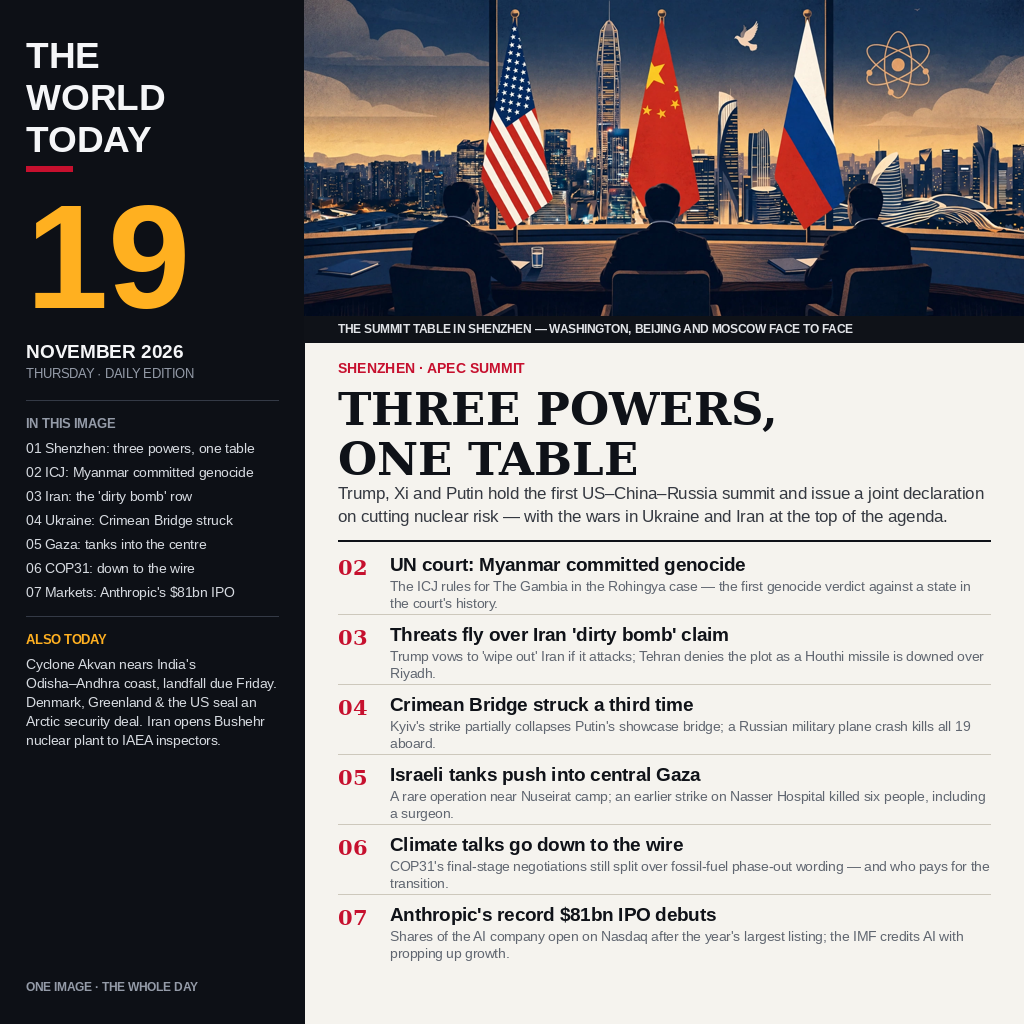
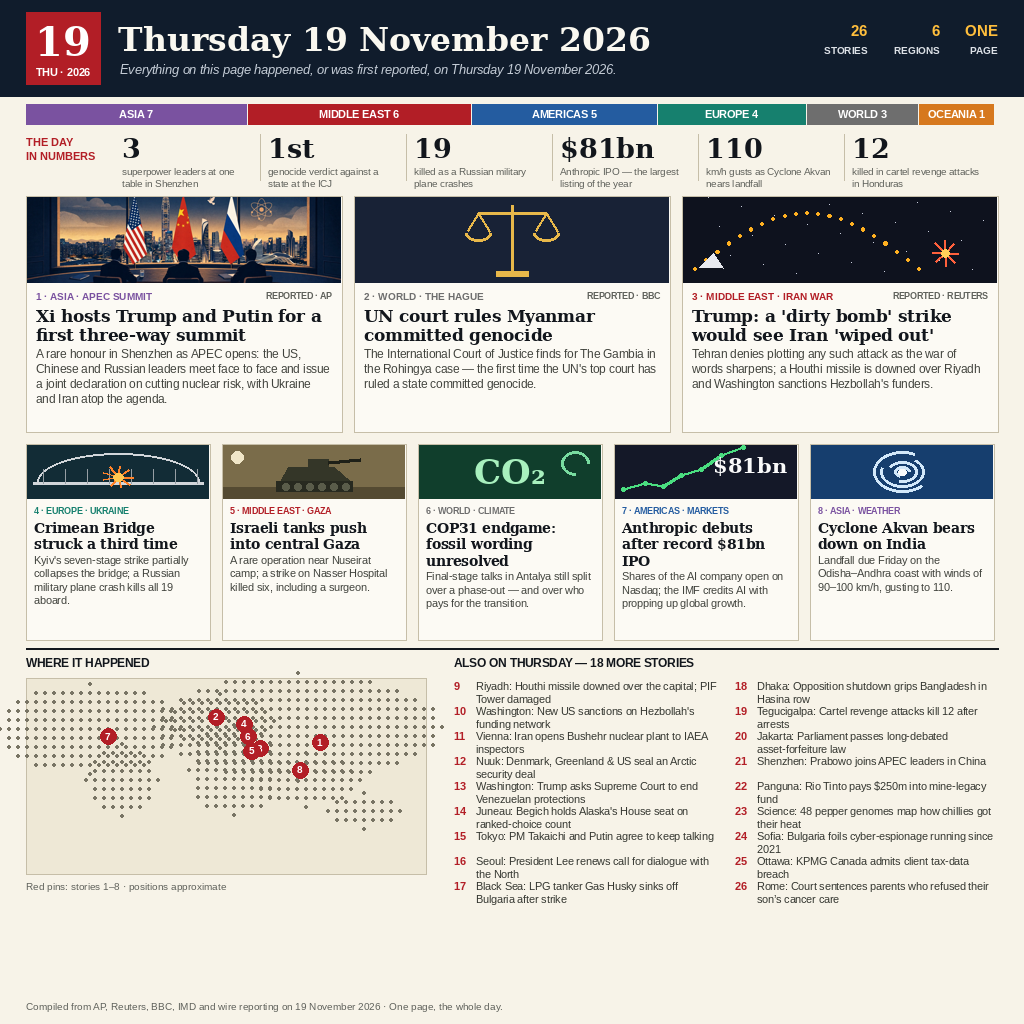
Redesign entry image v4: dense infographic broadsheet after the 18 Nov winner — day-in-numbers strip, 8 illustrated story cards, dotted world map with pins, 26 stories total

diff --git a/README.md b/README.md
@@ -2,7 +2,7 @@
 
 An entry for make.fun's "Sum up 19 November's world news in one image" bounty ($250, 50 places), entered by @oxwazolsky.
 
-The entry is a program (`main.ts`, Node 22, standard library only) that writes one image to `/output/entry.png`: a one-page modern editorial poster for Thursday 19 November 2026. The hero story is the first US–China–Russia trilateral summit in Shenzhen (Trump, Xi and Putin; joint declaration on nuclear risk), illustrated with an original editorial illustration of the three leaders at the summit table. Around it, six briefs carry the rest of the day — the ICJ's ruling that Myanmar committed genocide, the Iran "dirty bomb" row and the Houthi missile over Riyadh, Ukraine's third strike on the Crimean Bridge, Israel's operation in central Gaza, the COP31 endgame, and Anthropic's record $81bn IPO — plus an "Also today" ticker (Cyclone Akvan, the Denmark–Greenland–US Arctic deal, IAEA access to Bushehr).
+The entry is a program (`main.ts`, Node 22, standard library only) that writes one image to `/output/entry.png`: a dense one-page infographic broadsheet for Thursday 19 November 2026. The hero story is the first US–China–Russia trilateral summit in Shenzhen (Trump, Xi and Putin; joint declaration on nuclear risk), illustrated with an original editorial illustration of the three leaders at the summit table. Around it, six briefs carry the rest of the day — the ICJ's ruling that Myanmar committed genocide, the Iran "dirty bomb" row and the Houthi missile over Riyadh, Ukraine's third strike on the Crimean Bridge, Israel's operation in central Gaza, the COP31 endgame, and Anthropic's record $81bn IPO — plus an "Also today" ticker (Cyclone Akvan, the Denmark–Greenland–US Arctic deal, IAEA access to Bushehr).
 
 The judge has no news feed, so the page explains itself: every story is stated in the image, in plain headlines, exactly as a picture editor would lay out the day.
 
